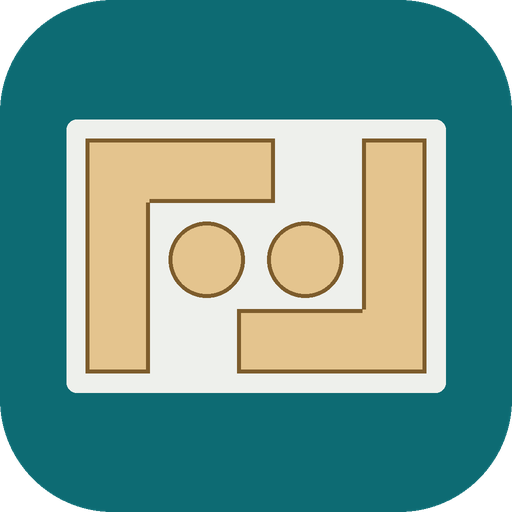
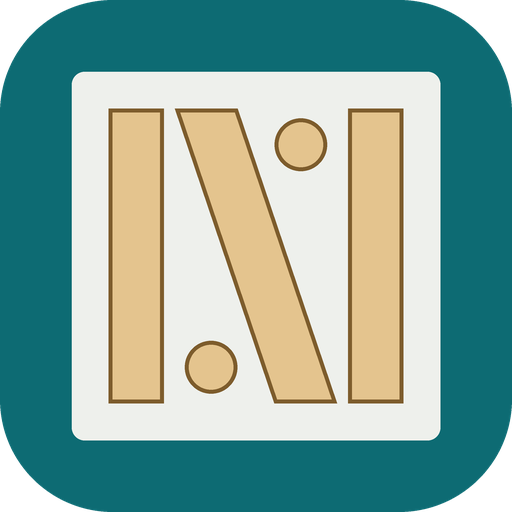
Nouvelle icône en forme de N — version 1.0.1
Claude-Session: https://claude.ai/code/session_01AmLjCgWrav5f2Pdvvzoxwj

diff --git a/app.js b/app.js
@@ -1,7 +1,7 @@
 /* Nestor — Copyright (C) 2026 Macr0b — AGPL-3.0-or-later (voir LICENSE). */
 /* Nestor — application installable.
    À chaque nouvelle version, changer APP_VERSION ici ET VERSION dans sw.js. */
-var APP_VERSION = "1.0.0";
+var APP_VERSION = "1.0.1";
 
 (function(){
   "use strict";

diff --git a/sw.js b/sw.js
@@ -1,6 +1,6 @@
 /* Service worker : fonctionnement hors ligne et mises à jour.
    À chaque nouvelle version, changer VERSION ci-dessous ET dans app.js. */
-const VERSION = "1.0.0";
+const VERSION = "1.0.1";
 const CACHE = "nestor-" + VERSION;
 const FILES = [
   "./",

diff --git a/LISEZMOI.md b/LISEZMOI.md
@@ -3,7 +3,7 @@
 Imbrication de pièces DXF, SVG et AI sur des panneaux, avec export SVG et DXF.
 Fonctionne hors connexion, en 45 langues, sur Mac, Windows, Linux, iPhone, iPad et Android.
 
-Version : 1.0.0
+Version : 1.0.1
 
 ## 1. Mettre l'application en ligne (une seule fois)
 
